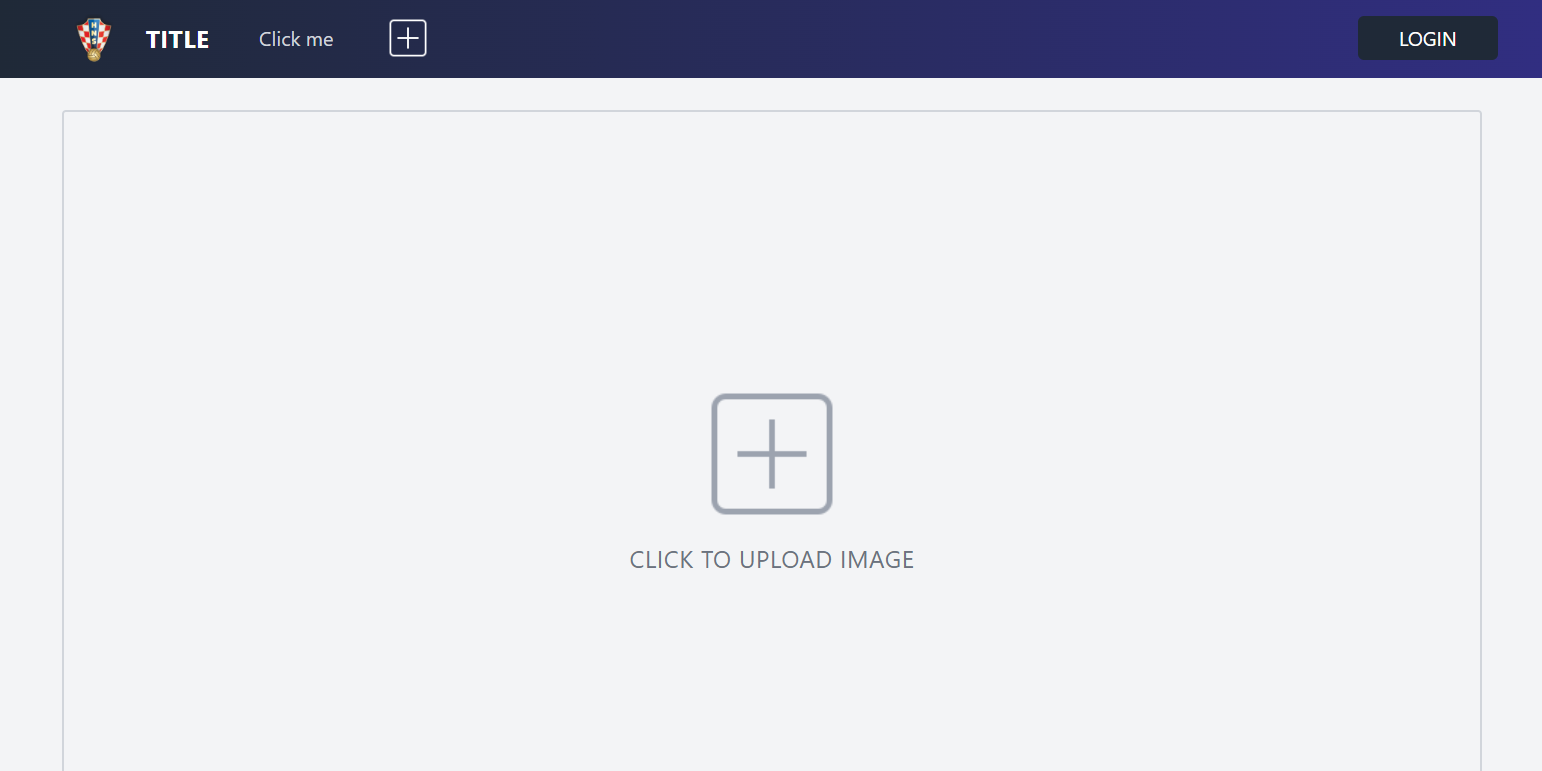
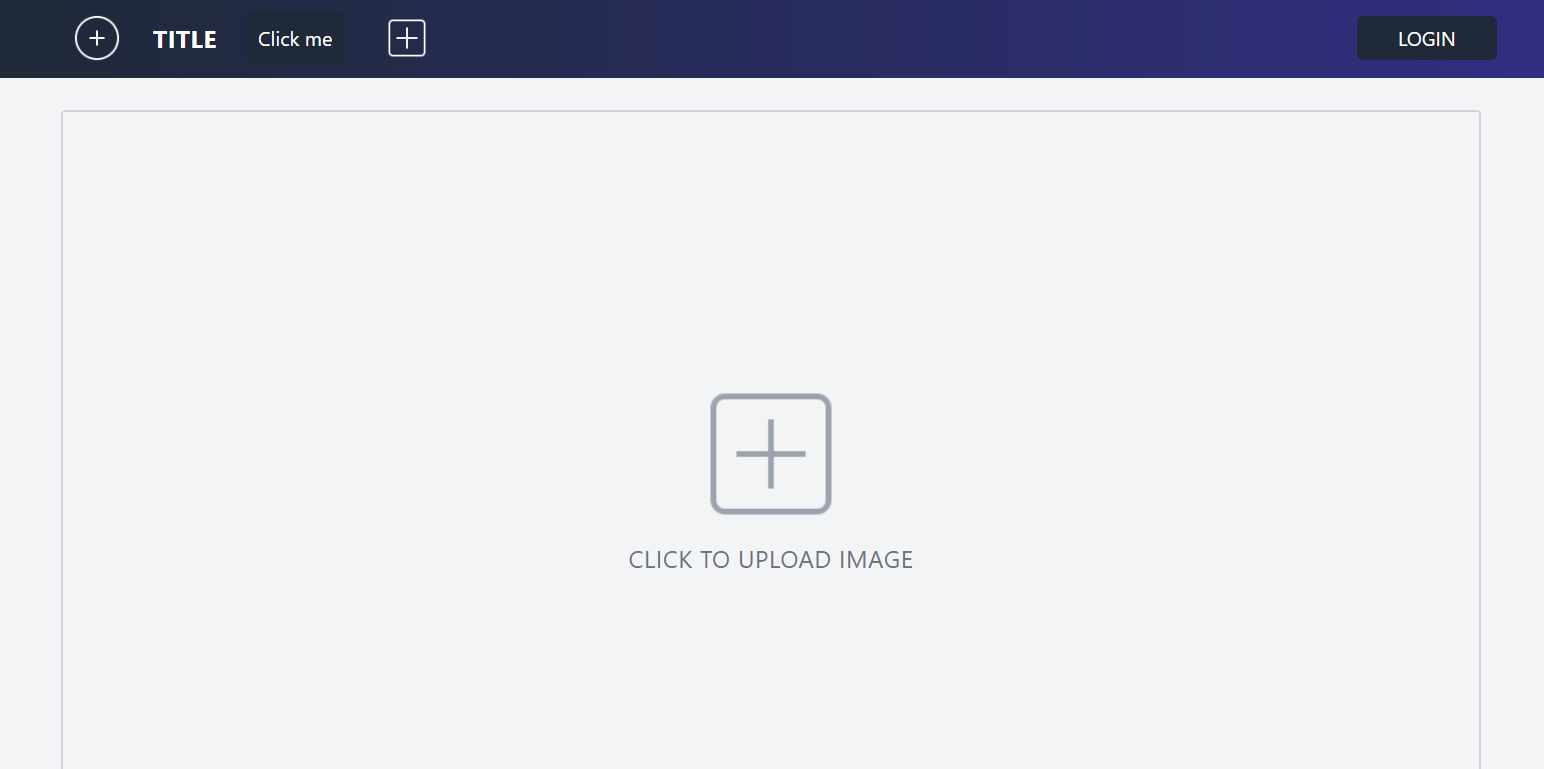
project image preview added

diff --git a/src/Project.js b/src/Project.js
@@ -1,11 +1,35 @@
-import React from 'react'
+import React, {useState, useEffect} from 'react'
 import {Link} from "react-router-dom"
 import PreviewPicture from "./images/Capture.PNG"
+import { storage } from './firebase.config'
+import { ref, listAll, getDownloadURL } from 'firebase/storage'
+
 
 const Project = (projectNumber) => {
+
+  const initialState = {
+    previewURL: ""
+  }
+
+  const [previewURL, setPreviewURL] = useState(initialState.previewURL);
+
+  const fetchPreviewURL = () => {
+    const imagesRef = ref(storage, `Projects/Project_${projectNumber.projectNumber}/images/headerImage/`);
+
+    listAll(imagesRef).then(list => {
+      list.items.map(itemRef => getDownloadURL(itemRef).then(url => {
+        setPreviewURL(url);
+      }));
+    })
+  }
+
+  useEffect(() => {
+    fetchPreviewURL();
+  })
+
   return (
     <Link to={`project_${projectNumber.projectNumber}`}>
-        <div className='flex justify-center items-center transition ease-in-out duration-200 hover:brightness-75 cursor-pointer w-96 h-48 border-2 border-gray-700'><img src={PreviewPicture}/></div>
+        <div className='border-2 transition ease-in-out duration-200 hover:brightness-75 cursor-pointer w-96 h-48 border-gray-700'><img className="w-96 h-[188px]" src={(previewURL !== initialState.previewURL) ? previewURL : PreviewPicture}/></div>
         <div className='text-xl'>Project_{projectNumber.projectNumber}</div>
     </Link>
   )

diff --git a/src/components/footer/Footer.js b/src/components/footer/Footer.js
@@ -18,6 +18,8 @@ const Footer = (project) => {
   const [imageURL, setImageURL] = useState(InitialState.imageURL);
   const [isUploadModalActive, setIsUploadModalActive] = useState(InitialState.isUploadModalActive);
   const [text, setText] = useState([]);
+
+  const storagePath = `Projects/Project_${project.project}/images/footerImage/`
   const footerCollectionPath = `Projects/Project_${project.project}/footerText`;
   const footerCollection = collection(db, footerCollectionPath);
 
@@ -38,7 +40,7 @@ const Footer = (project) => {
   }, [])
   
   const fetchImage = () => {
-    const imagesRef = ref(storage, "images/footerImage" );
+    const imagesRef = ref(storage, storagePath );
 
     listAll(imagesRef).then(list => {
       list.items.map(itemRef => getDownloadURL(itemRef).then(url => {
@@ -54,8 +56,8 @@ const Footer = (project) => {
     }
     
     // here we reference the path to which we want to store our image, not the folder in which we want it to be
-    const imageRef = ref(storage, "images/footerImage/" + file.name);        
-    const imagesRef = ref(storage, "images/footerImage")
+    const imageRef = ref(storage, storagePath + file.name);        
+    const imagesRef = ref(storage, storagePath)
 
     listAll(imagesRef).then(list => {
       list.items.map(itemRef => deleteObject(itemRef))

diff --git a/src/components/navBar/NavBar.js b/src/components/navBar/NavBar.js
@@ -22,6 +22,7 @@ const NavBar = (project) => {
   const [isUploadModalActive, setIsUploadModalActive] = useState(false);
   const [isAddBtnActive, setIsAddBtnActive] = useState(true);
 
+  const storagePath = `Projects/Project_${project.project}/images/logo/`
   const navLinksCollectionPath = `Projects/Project_${project.project}/navLinks`;
   const titleCollectionPath = `Projects/Project_${project.project}/navbarTitleText`;
   const navLinksCollection = collection(db, navLinksCollectionPath);
@@ -39,7 +40,7 @@ const NavBar = (project) => {
   }
 
   const fetchLogo = () => {
-    const imagesRef = ref(storage, "images/logo");
+    const imagesRef = ref(storage, storagePath);
 
     // list through all images
     listAll(imagesRef).then(list => {
@@ -104,8 +105,8 @@ const NavBar = (project) => {
     }
     
     // here we reference the path to which we want to store our image, not the folder in which we want it to be
-    const imageRef = ref(storage, "images/logo/" + file.name);        
-    const imagesRef = ref(storage, "images/logo")
+    const imageRef = ref(storage, storagePath + file.name);        
+    const imagesRef = ref(storage, storagePath)
 
     listAll(imagesRef).then(list => {
       list.items.map(itemRef => deleteObject(itemRef))

diff --git a/src/assets/output.css b/src/assets/output.css
@@ -480,6 +480,9 @@ video {
   margin-top: 1.25rem;
   margin-bottom: 1.25rem;
 }
+.mt-6 {
+  margin-top: 1.5rem;
+}
 .mt-5 {
   margin-top: 1.25rem;
 }
@@ -503,9 +506,6 @@ video {
 }
 .ml-3 {
   margin-left: 0.75rem;
-}
-.mt-6 {
-  margin-top: 1.5rem;
 }
 .flex {
   display: flex;
@@ -561,8 +561,24 @@ video {
 .h-8 {
   height: 2rem;
 }
-.h-40 {
-  height: 10rem;
+.h-\[1000px\] {
+  height: 1000px;
+}
+.h-\[500px\] {
+  height: 500px;
+}
+.h-44 {
+  height: 11rem;
+}
+.h-fit {
+  height: -moz-fit-content;
+  height: fit-content;
+}
+.h-\[190px\] {
+  height: 190px;
+}
+.h-\[188px\] {
+  height: 188px;
 }
 .max-h-\[250px\] {
   max-height: 250px;
@@ -617,13 +633,6 @@ video {
 }
 .w-8 {
   width: 2rem;
-}
-.w-fit {
-  width: -moz-fit-content;
-  width: fit-content;
-}
-.w-40 {
-  width: 10rem;
 }
 .max-w-\[250px\] {
   max-width: 250px;
@@ -711,6 +720,9 @@ video {
 }
 .border {
   border-width: 1px;
+}
+.border-4 {
+  border-width: 4px;
 }
 .border-none {
   border-style: none;

diff --git a/src/Home.js b/src/Home.js
@@ -1,15 +1,17 @@
-import React from 'react'
+import React, { useEffect } from 'react'
 import ArticleSection from "./components/featuredArticles/ArticleSection.js";
 import Footer from "./components/footer/Footer.js";
 import Header from "./components/header/Header.js";
 import CommenntBoard from "./components/commentBoard/CommentBoard.js";
 import NavBar from './components/navBar/NavBar.js';
 import PropTypes from "prop-types"
-
+import html2canvas from 'html2canvas';
+import { db } from './firebase.config.js';
+import { doc, updateDoc } from 'firebase/firestore';
 
 const Home = ({projectNumber}) => {
   return (
-    <div>
+    <div id="capture" className=''>
         <NavBar project={projectNumber}/>
         <Header project={projectNumber}/>
         <CommenntBoard project={projectNumber}/>
